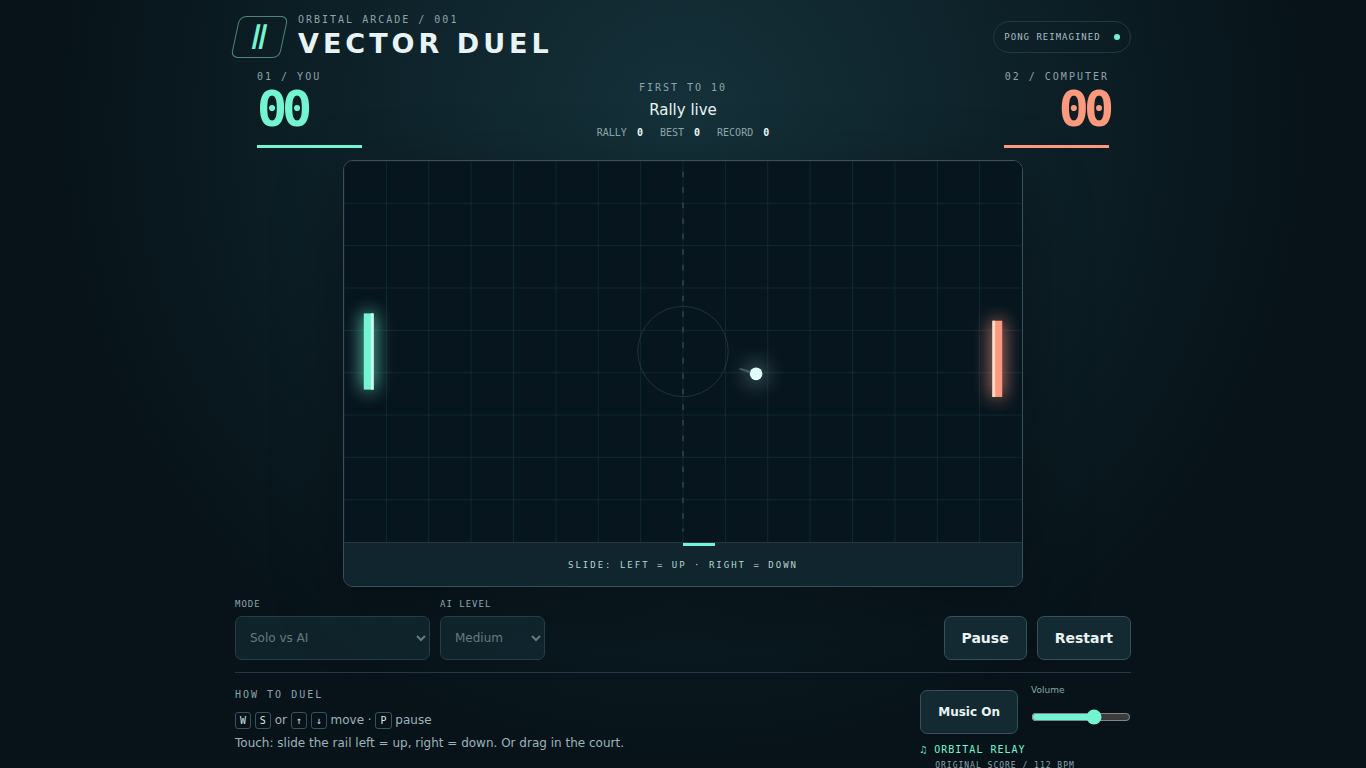
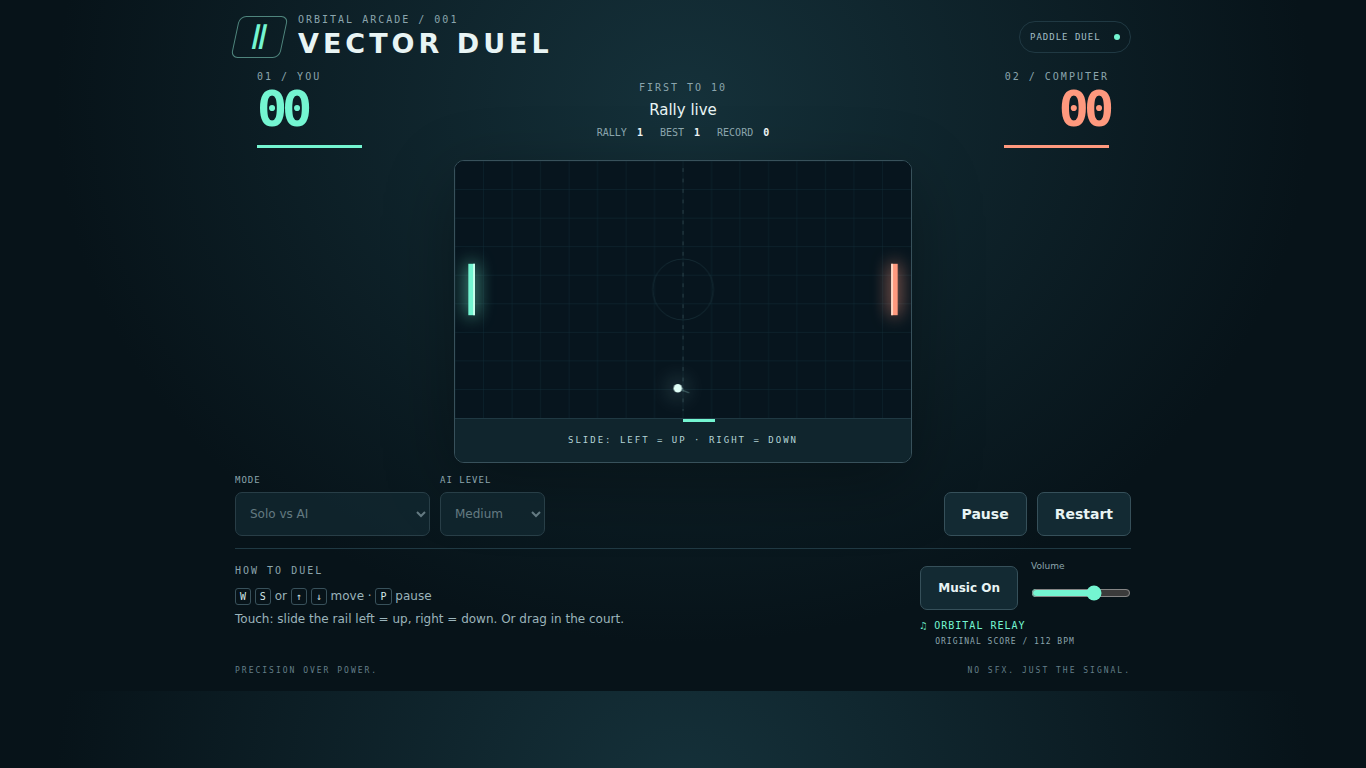
Refresh private gameplay evidence and limit desktop fit changes to desktop

diff --git a/tests/browser/preparation-layout.spec.js b/tests/browser/preparation-layout.spec.js
@@ -2,7 +2,7 @@ import { test, expect } from '@playwright/test';
 for (const [width,height] of [[1920,1080],[1366,768],[768,1024],[390,844],[320,568],[844,390]]) {
   test(`all gameplay and music controls fit ${width}x${height}`, async ({page}) => {
     await page.setViewportSize({width,height});
-    await page.goto('/');
+    await page.goto('./');
     await page.locator('#start').click();
     await expect(page.locator('#overlay')).toBeHidden();
     const geometry = await page.evaluate(() => ({

diff --git a/style.css b/style.css
@@ -608,7 +608,7 @@ input[type="range"] {
 }
 
 /* Bound the court by available height as well as width. No overflow masking. */
-@media (min-width: 601px) and (min-height: 481px) {
+@media (min-width: 1000px) and (min-height: 601px) {
   .arena-shell {
     width: 100%;
     max-width: min(100%, calc((100dvh - 510px) * 16 / 9));

diff --git a/README.md b/README.md
@@ -1,5 +1,5 @@
 # Vector Duel — private preparation
-**Not published or cleared for release.** Existing geometric art, mechanics, Orbital Relay soundtrack and `vector-duel.record` / `vector-duel.music` storage remain intact. Proposed branding/URL is only in `docs/private-migration.md`. Historical screenshots and test totals below predate this preparation; current evidence is `/root/arcade-migration-audit/preparation/paddle-*`.
+**Not published or cleared for release.** Existing geometric art, mechanics, Orbital Relay soundtrack and `vector-duel.record` / `vector-duel.music` storage remain intact. Proposed branding/URL is only in `docs/private-migration.md`. Gameplay screenshots were refreshed from actual private-worktree runs after the layout fix; historical test totals below are not new preparation passes. Current evidence is `/root/arcade-migration-audit/preparation/paddle-*`.
 
 Local review: `npm ci`, `npm run serve`, open `http://127.0.0.1:4187`. Tests: `npm test`; stop the manual server, then `BASE_URL=http://127.0.0.1:4187 npm run test:browser` (Chromium, Firefox and WebKit, one worker). Linux audio tests require `pulseaudio`; the runner creates an isolated null sink, not physical-speaker verification. Browser install: `npx playwright install --with-deps chromium firefox webkit`. No build command exists. All servers/tests in this shared audit must use `flock /root/arcade-migration-audit/preparation/test.lock`. Candidate static runtime is only `index.html`, `style.css`, `src/`, `assets/icon.svg` and `LICENSE`; exclude tests/evidence/private docs.
 
